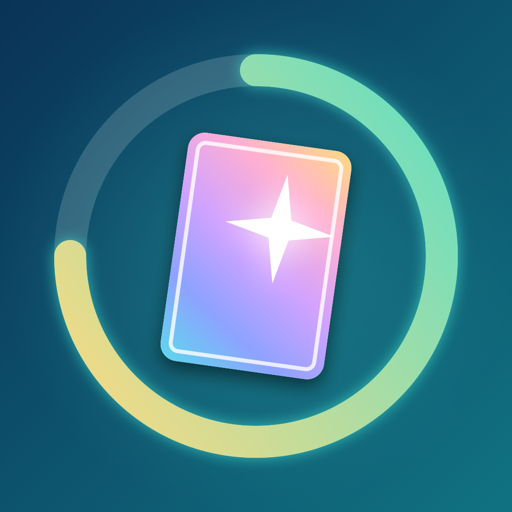
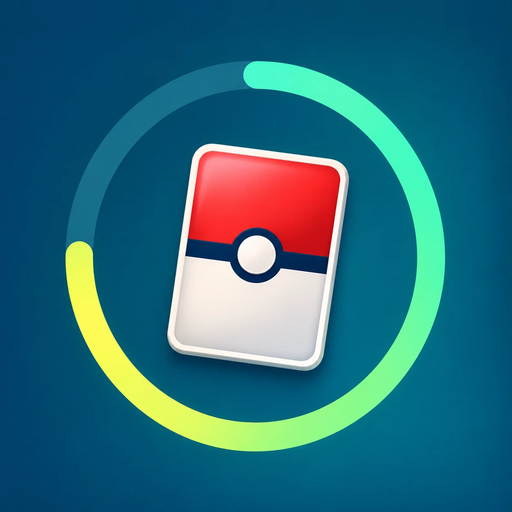
Nouvelle icône de l'app et texte alternatif qui la décrit

diff --git a/fr/index.html b/fr/index.html
@@ -23,7 +23,7 @@
                     <span class="status">En développement · bientôt sur l'App Store (iPhone, iOS 18+)</span>
                 </div>
                 <div class="hero-shot">
-                    <img class="hero-icon" src="../images/icon.png" alt="Icône de PokéTracker : une carte holographique dans un anneau de progression">
+                    <img class="hero-icon" src="../images/icon.png" alt="Icône de PokéTracker : une carte à motif de Poké Ball dans un anneau de progression">
                 </div>
             </div>
         </div>

diff --git a/index.html b/index.html
@@ -23,7 +23,7 @@
                     <span class="status">In development · coming to the App Store (iPhone, iOS 18+)</span>
                 </div>
                 <div class="hero-shot">
-                    <img class="hero-icon" src="images/icon.png" alt="PokéTracker icon: a holographic card inside a progress ring">
+                    <img class="hero-icon" src="images/icon.png" alt="PokéTracker icon: a trading card with a Poké Ball motif inside a progress ring">
                 </div>
             </div>
         </div>
